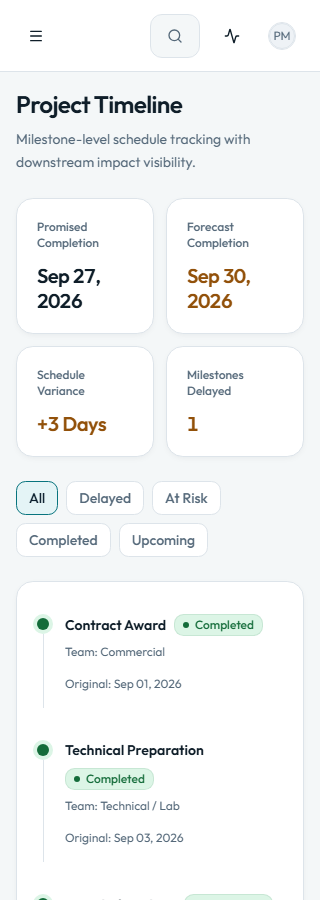
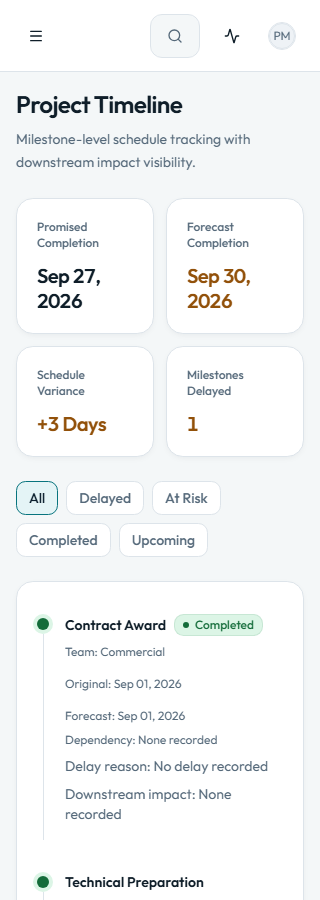
Update prototype

Changed region(s): [[0.1875, 0.7778, 0.875, 1.0], [0.0938, 0.9644, 0.1562, 1.0], [0.0938, 0.8089, 0.1562, 0.84]]

diff --git a/app/(app)/timeline/page.tsx b/app/(app)/timeline/page.tsx
@@ -87,13 +87,13 @@ export default function TimelinePage() {
                     <div className="flex flex-wrap items-center gap-4 text-xs text-muted-foreground">
                       <span>Team: {m.team}</span>
                       <span>Original: {formatLong(m.originalDate)}</span>
-                      {moved && <span className="font-medium text-warning-foreground">Forecast: {formatLong(m.forecastDate)}</span>}
+                      <span className={moved ? "font-medium text-warning-foreground" : ""}>Forecast: {formatLong(m.forecastDate)}</span>
                       {m.daysImpacted > 0 && <span className="font-medium text-warning-foreground">+{m.daysImpacted} Days</span>}
                     </div>
                     {!["ms-10", "ms-11", "ms-12"].includes(m.id) && canRecordExternal(role, m.team) && <Select value={m.status} onValueChange={v => { if(v) { updateMilestone(m.id, v as Milestone["status"]); toast.success(`${m.name} updated`) } }}><SelectTrigger aria-label={`Status for ${m.name}`} className="w-44"><SelectValue /></SelectTrigger><SelectContent>{["upcoming", "in-progress", "at-risk", "delayed", "completed"].map(v => <SelectItem key={v} value={v}>{milestoneMeta(v).label}</SelectItem>)}</SelectContent></Select>}
-                    {["ms-10", "ms-11", "ms-12"].includes(m.id) && <Link href="/completion" className="text-sm font-medium text-primary hover:underline">Review completion and client validation</Link>}{m.dependency && <p className="text-xs text-muted-foreground">Dependency: {m.dependency}</p>}
-                    {m.delayReason && <p className="text-sm text-warning-foreground">Delay reason: {m.delayReason}</p>}
-                    {m.downstreamImpact && <p className="text-sm text-muted-foreground">Downstream impact: {m.downstreamImpact}</p>}
+                    {["ms-10", "ms-11", "ms-12"].includes(m.id) && <Link href="/completion" className="text-sm font-medium text-primary hover:underline">Review completion and client validation</Link>}<p className="text-xs text-muted-foreground">Dependency: {m.dependency || "None recorded"}</p>
+                    <p className="text-sm text-muted-foreground">Delay reason: {m.delayReason || "No delay recorded"}</p>
+                    <p className="text-sm text-muted-foreground">Downstream impact: {m.downstreamImpact || "None recorded"}</p>
                   </div>
                 </li>
               )

diff --git a/app/(app)/cost-impact/page.tsx b/app/(app)/cost-impact/page.tsx
@@ -27,6 +27,7 @@ export default function CostTimelineImpactPage() {
       original: c.combinedImpact.originalCompletion,
       forecast: c.combinedImpact.forecastCompletion,
       days: c.combinedImpact.scheduleDays,
+      daysLabel: c.combinedImpact.scheduleDays > 0 ? `+${c.combinedImpact.scheduleDays} Days` : "None",
       cost: c.combinedImpact.cost,
       reason: c.reason,
       team: c.assessments.commercial.team,
@@ -38,12 +39,13 @@ export default function CostTimelineImpactPage() {
       .filter((i) => i.timelineImpact !== "None" && i.status !== "resolved")
       .map((i) => ({
         id: i.id,
-        href: "/issues",
+        href: `/issues?record=${i.id}`,
         label: i.title,
         source: "Issue",
-        original: "—",
-        forecast: "—",
+        original: milestones.find(m => m.name === i.affectedMilestone)?.originalDate ?? "—",
+        forecast: milestones.find(m => m.name === i.affectedMilestone)?.forecastDate ?? "—",
         days: Number(i.timelineImpact.match(/\d+/)?.[0]) || 0,
+        daysLabel: /\d/.test(i.timelineImpact) ? i.timelineImpact : `${i.timelineImpact} · not quantified`,
         cost: Number(i.costImpact.replace(/[^\d.]/g, "")) || 0,
         reason: i.description,
         team: i.team,
@@ -92,7 +94,7 @@ export default function CostTimelineImpactPage() {
                   <TableCell>{item.original !== "—" ? formatLong(item.original) : "—"}</TableCell><TableCell>{item.reason}</TableCell><TableCell>{item.affected || "None"}</TableCell><TableCell>{item.review}</TableCell>
                   <TableCell className="text-muted-foreground">{item.forecast !== "—" ? formatLong(item.forecast) : "—"}</TableCell>
                   <TableCell className={item.days > 0 ? "font-medium text-warning-foreground" : "text-muted-foreground"}>
-                    {item.days > 0 ? `+${item.days} Days` : "None"}
+                    {item.daysLabel}
                   </TableCell>
                   <TableCell className="font-medium text-foreground">{item.cost > 0 ? formatCurrency(item.cost) : "$0"}</TableCell>
                   <TableCell className="text-muted-foreground">{item.team}</TableCell>

diff --git a/tests/requirements.spec.ts b/tests/requirements.spec.ts
@@ -1,5 +1,27 @@
 import { test, expect, type Page } from '@playwright/test'
 
+test('required schedule fields remain explicit and exposure links open the correct issue', async ({ page }) => {
+  await page.goto('/timeline')
+  const milestones = page.locator('main ol > li')
+  await expect(milestones).toHaveCount(12)
+  for (const milestone of await milestones.all()) {
+    for (const label of ['Original:', 'Forecast:', 'Team:', 'Dependency:', 'Delay reason:', 'Downstream impact:']) {
+      await expect(milestone).toContainText(label)
+    }
+  }
+  await page.goto('/cost-impact')
+  const delivery = page.getByRole('row').filter({ has: page.getByRole('link', { name: 'Chemical Delivery Delay', exact: true }) })
+  await expect(delivery.getByRole('cell', { name: 'Sep 18, 2026', exact: true })).toHaveCount(2)
+  await expect(page.getByText('At Risk · not quantified', { exact: true }).first()).toBeVisible()
+  await delivery.getByRole('link').click()
+  await expect(page.getByRole('dialog')).toContainText('Chemical Delivery Delay')
+  await expect(page.getByRole('combobox', { name: 'Issue status', exact: true })).toBeVisible()
+  await page.goto('/technical')
+  await page.locator('main [data-slot="card-content"] > button').first().click()
+  for (const label of ['Responsible Team', 'Start Date', 'Due Date', 'Dependency']) await expect(page.getByRole('dialog')).toContainText(label)
+  await expect(page.getByRole('combobox', { name: 'Technical stage status' })).toBeVisible()
+})
+
 const roles = { 'project-manager':'Project Manager',technical:'Technical / Lab',operations:'Operations',procurement:'Procurement / Logistics',commercial:'Commercial',management:'Management',admin:'Admin' }
 async function role(page: Page,key: keyof typeof roles) {
   await page.goto('/')

diff --git a/app/(app)/technical/page.tsx b/app/(app)/technical/page.tsx
@@ -109,7 +109,8 @@ export default function TechnicalWorkflowPage() {
                   <Detail label="Start Date" value={activeStage.startDate ? formatLong(activeStage.startDate) : "Not recorded"} />
                   <Detail label="Due Date" value={activeStage.dueDate ? formatLong(activeStage.dueDate) : activeStage.completedDate ? formatLong(activeStage.completedDate) : "Not scheduled"} />
                   {activeStage.completedDate && <Detail label="Completed" value={formatLong(activeStage.completedDate)} />}
-                  {activeStage.dependency && <Detail label="Dependency" value={activeStage.dependency} />}
+                  <Detail label="Dependency" value={activeStage.dependency || "None recorded"} />
+                  {!activeStage.impactIfDelayed && <Detail label="Impact if Delayed" value="Not recorded — specialist review required" />}
                 </dl>
 
                 {!activeStage.outcome && <p className="rounded-lg border border-dashed p-4 text-sm text-muted-foreground">Outcome placeholder: specialist findings have not yet been recorded.</p>}
@@ -143,7 +144,7 @@ export default function TechnicalWorkflowPage() {
                       toast.success("Stage status updated", { description: `${activeStage.name} marked ${v.replace("-", " ")}.` })
                     }}
                   >
-                    <SelectTrigger className="w-full">
+                    <SelectTrigger aria-label="Technical stage status" className="w-full">
                       <SelectValue />
                     </SelectTrigger>
                     <SelectContent>

diff --git a/app/(app)/changes/[id]/page.tsx b/app/(app)/changes/[id]/page.tsx
@@ -177,7 +177,7 @@ export default function ChangeDetailPage() {
               ) : (
                 <>
                   <p className="text-sm leading-relaxed text-muted-foreground">
-                    {!["project-manager", "admin"].includes(state.role) ? "Only the Project Manager can record this project-level decision." : allAssessmentsComplete ? "Review the completed assessments and combined impact before recording your decision." : "Complete the specialist assessments before approving this change."}
+                    {state.role !== "project-manager" ? "Only the Project Manager can record this project-level decision." : allAssessmentsComplete ? "Review the completed assessments and combined impact before recording your decision." : "Complete the specialist assessments before approving this change."}
                   </p>
                   <div className="flex flex-col gap-2">
                     <Button disabled={!decisionPending} onClick={() => setDialog("approve")}>

diff --git a/app/(app)/readiness/page.tsx b/app/(app)/readiness/page.tsx
@@ -110,6 +110,8 @@ export default function ExecutionReadinessPage() {
                   </div>
                 </dl>
 
+                {!activeItem.issue && <p className="text-sm text-muted-foreground">Related Issue: None recorded</p>}
+                {!activeItem.impact && <p className="text-sm text-muted-foreground">Project Impact: Not recorded — responsible team to confirm</p>}
                 {activeItem.issue && (
                   <div className="rounded-lg border border-warning-foreground/20 bg-warning p-3">
                     <p className="mb-1 text-xs font-medium text-warning-foreground">Related Issue</p>

diff --git a/app/(app)/issues/page.tsx b/app/(app)/issues/page.tsx
@@ -177,7 +177,7 @@ export default function IssuesPage() {
                       toast.success("Issue status updated", { description: `${activeIssue.title} marked ${v.replace(/-/g, " ")}.` })
                     }}
                   >
-                    <SelectTrigger className="w-full">
+                    <SelectTrigger aria-label="Issue status" className="w-full">
                       <SelectValue />
                     </SelectTrigger>
                     <SelectContent>

diff --git a/REQUIREMENTS-RECHECK.md b/REQUIREMENTS-RECHECK.md
@@ -1,0 +1,51 @@
+# Requirements recheck
+
+The attachment supplied again by the user is byte-for-byte identical to REQUIREMENTS.md (SHA-256: 2F66D18AF5671718AF09C759147959189C198D8B9A6811609819C0D5701EF965).
+
+This review checked implementation files and browser behavior against the actual specification, rather than treating the earlier checklist as proof.
+
+## Minimum screen evidence
+
+| Required screen | Implementation |
+|---|---|
+| Login / Role Selection | app/page.tsx; seven internal roles only |
+| Project Manager Dashboard | app/(app)/command-center/page.tsx; attention, health, dates, exposure, open work, dependencies, readiness and history |
+| Projects List | app/(app)/projects/page.tsx; requested project fields, counts, search and filters |
+| Project Detail | app/(app)/projects/[id]/page.tsx; all ten tabs, summary, risks and dependencies |
+| Project Setup | app/(app)/projects/[id]/setup/page.tsx; required setup fields, save and validation |
+| Technical Workflow | app/(app)/technical/page.tsx; eight stages, specialist ownership, status, dates, records and dependencies |
+| Execution Readiness | app/(app)/readiness/page.tsx; nine items, five statuses, ownership and impact |
+| Timeline / Milestones | app/(app)/timeline/page.tsx; twelve milestones, original/forecast, ownership and downstream impact |
+| Change & Impact Management | app/(app)/changes/page.tsx; register and expandable four-specialist impact summaries |
+| Change Detail | app/(app)/changes/[id]/page.tsx; review, four PM decisions, linked records, actions and history |
+| Issues & Risks | app/(app)/issues/page.tsx; all seven statuses and requested detail fields |
+| Action & Responsibility Tracker | app/(app)/actions/page.tsx; all requested filters, team/person/coordinator and next steps |
+| Cost & Timeline Impact | app/(app)/cost-impact/page.tsx; requested columns, mocked values and review/decision status |
+| Documents / Technical Records | app/(app)/documents/page.tsx; eleven specified record types and mock previews |
+| Activity / Project History | app/(app)/activity/page.tsx; requested team and PM-decision filters |
+| Completion & Client Validation | components/shared/completion-workflow.tsx; ten checklist items and role-owned confirmations |
+| Management Overview | app/(app)/management/page.tsx; ten required indicators and read-only drill-down |
+| Admin Dashboard | app/(app)/admin/page.tsx; eight metrics and mock configuration links |
+| Admin User / Role Management | app/(app)/admin/users/page.tsx; editable mock profiles, roles and activation |
+
+The role matrix and all twenty acceptance criteria remain mapped in REQUIREMENTS-CHECKLIST.md. lib/permissions.ts and the state mutation guards in lib/store.tsx enforce the mock role behavior.
+
+## Gaps found and corrected in this recheck
+
+- Timeline now displays forecast dates even when equal to original dates, and explicit dependency/delay/downstream placeholders instead of hiding empty fields.
+- Cost/timeline issue rows now show the affected milestone's recorded original/forecast dates and link directly to the corresponding issue. Unquantified schedule risk is no longer shown as no impact.
+- Technical stages and readiness dialogs now keep required dependency/impact/issue information explicit when no value is recorded.
+- Technical and issue status controls have explicit accessible names.
+- Admin's change-decision explanation now clearly states that only PM can decide, matching the existing disabled controls and state guard.
+
+These changes complete existing specified fields and clarify behavior; they add no new product modules or live systems.
+
+## Scope interpretation
+
+The requirement asks for one connected realistic project and a mocked portfolio. Produced Water Treatment Optimization is the complete operational demonstration. Other projects are portfolio/detail examples; they are not separate fully seeded operational demonstrations. All mock persistence is local to the browser. Role selection is not real authentication. External client confirmations are recorded by PM, and specialist conclusions remain manually entered.
+
+No live backend, integrations, notifications, messaging, portals, file storage, accounting, chemical calculations, or AI were introduced. A requirement for a 30-second understanding or presentation readiness remains a human usability judgment; automated checks cannot prove that timing or guarantee every possible input.
+
+## Verification results
+
+Recheck results: 23/23 browser tests passed with zero failures, skips or flaky results; 130 route/viewport checks passed with zero detected overflow, runtime errors or automated accessibility violations. Production build and its TypeScript check passed.

diff --git a/QA-REVIEW.md b/QA-REVIEW.md
@@ -34,7 +34,7 @@ The supplied requirements are preserved in REQUIREMENTS.md and mapped in REQUIRE
 
 ### Verified scope
 
-- Final regression: 22 browser tests passed, with zero failures, skips or flaky results (191 seconds).
+- Final regression: 23 browser tests passed, with zero failures, skips or flaky results.
 - Production build and TypeScript checks pass.
 - 26 routes at 1440, 1024, 768, 390 and 320 pixels: 130 checks, no detected body/main overflow or uncaught page errors.
 - Automated WCAG A/AA page checks at desktop: no detected violations. Representative readiness, issue, document and all four change-decision dialogs also receive accessibility checks.
@@ -48,3 +48,5 @@ This is mocked software as requested. Permissions demonstrate role behavior, not
 Automated checks do not certify every possible input or assistive-technology combination. Reproducible evidence is in qa-artifacts/audit.json and qa-artifacts/tests.json; README.md contains run and demo instructions.
 
 
+
+Latest requirements recheck: explicit milestone forecasts/dependencies, issue exposure dates/deep links, unquantified risk labels, empty required-field placeholders, named status controls, and Admin PM-only decision copy were corrected and verified. See REQUIREMENTS-RECHECK.md.

diff --git a/REQUIREMENTS-CHECKLIST.md b/REQUIREMENTS-CHECKLIST.md
@@ -60,5 +60,7 @@ No Client/Supplier portal, chat, CRM, ERP, construction claims, accounting syste
 
 `pnpm build`, `pnpm typecheck`, `pnpm test:e2e`, and `pnpm qa:audit` are the repeatable checks. Browser results are in `qa-artifacts/tests.json` and `qa-artifacts/audit.json`. Tests include the seven-role matrix, the four-specialist change scenario, and the complete specialist → client → commercial → project closeout journey.
 
-Final results: 22/22 browser tests passed; 130 route/viewport checks completed with no detected overflow or runtime errors; automated page and tested-dialog accessibility scans passed. Production build and TypeScript checks passed.
+Final results: 23/23 browser tests passed; 130 route/viewport checks completed with no detected overflow or runtime errors; automated page and tested-dialog accessibility scans passed. Production build and TypeScript checks passed.
 
+
+The latest attachment was rechecked against source code. See REQUIREMENTS-RECHECK.md for screen-level evidence and the additional field-level corrections.
